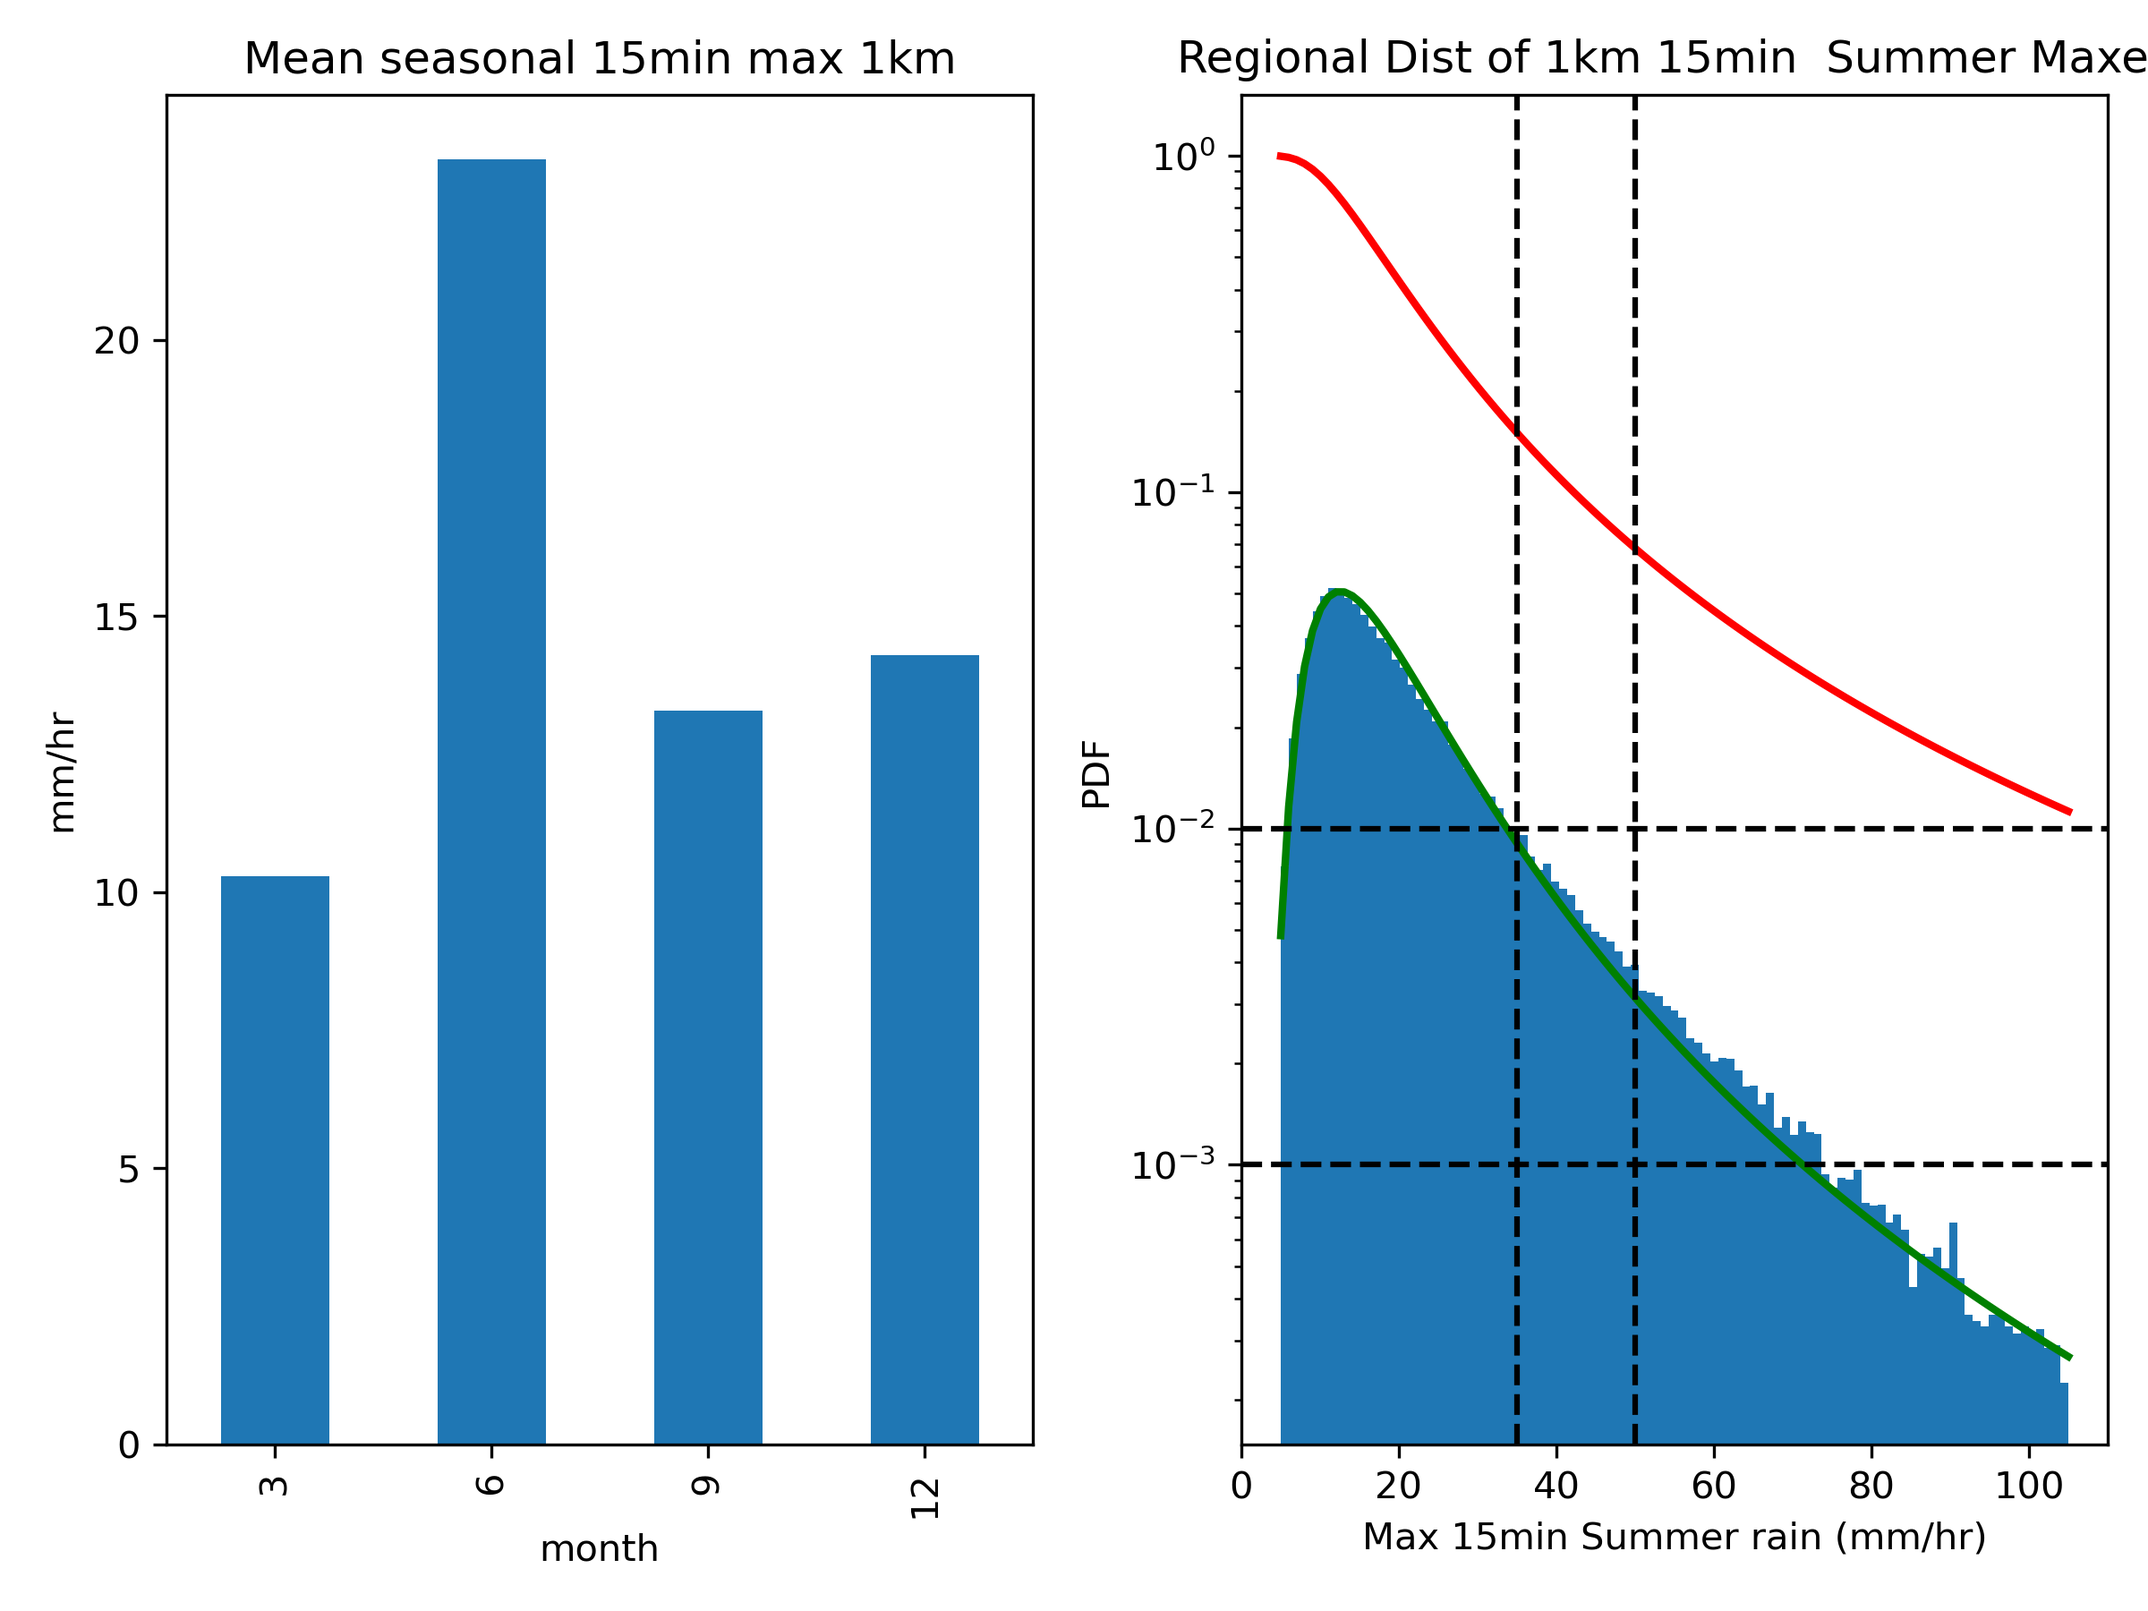
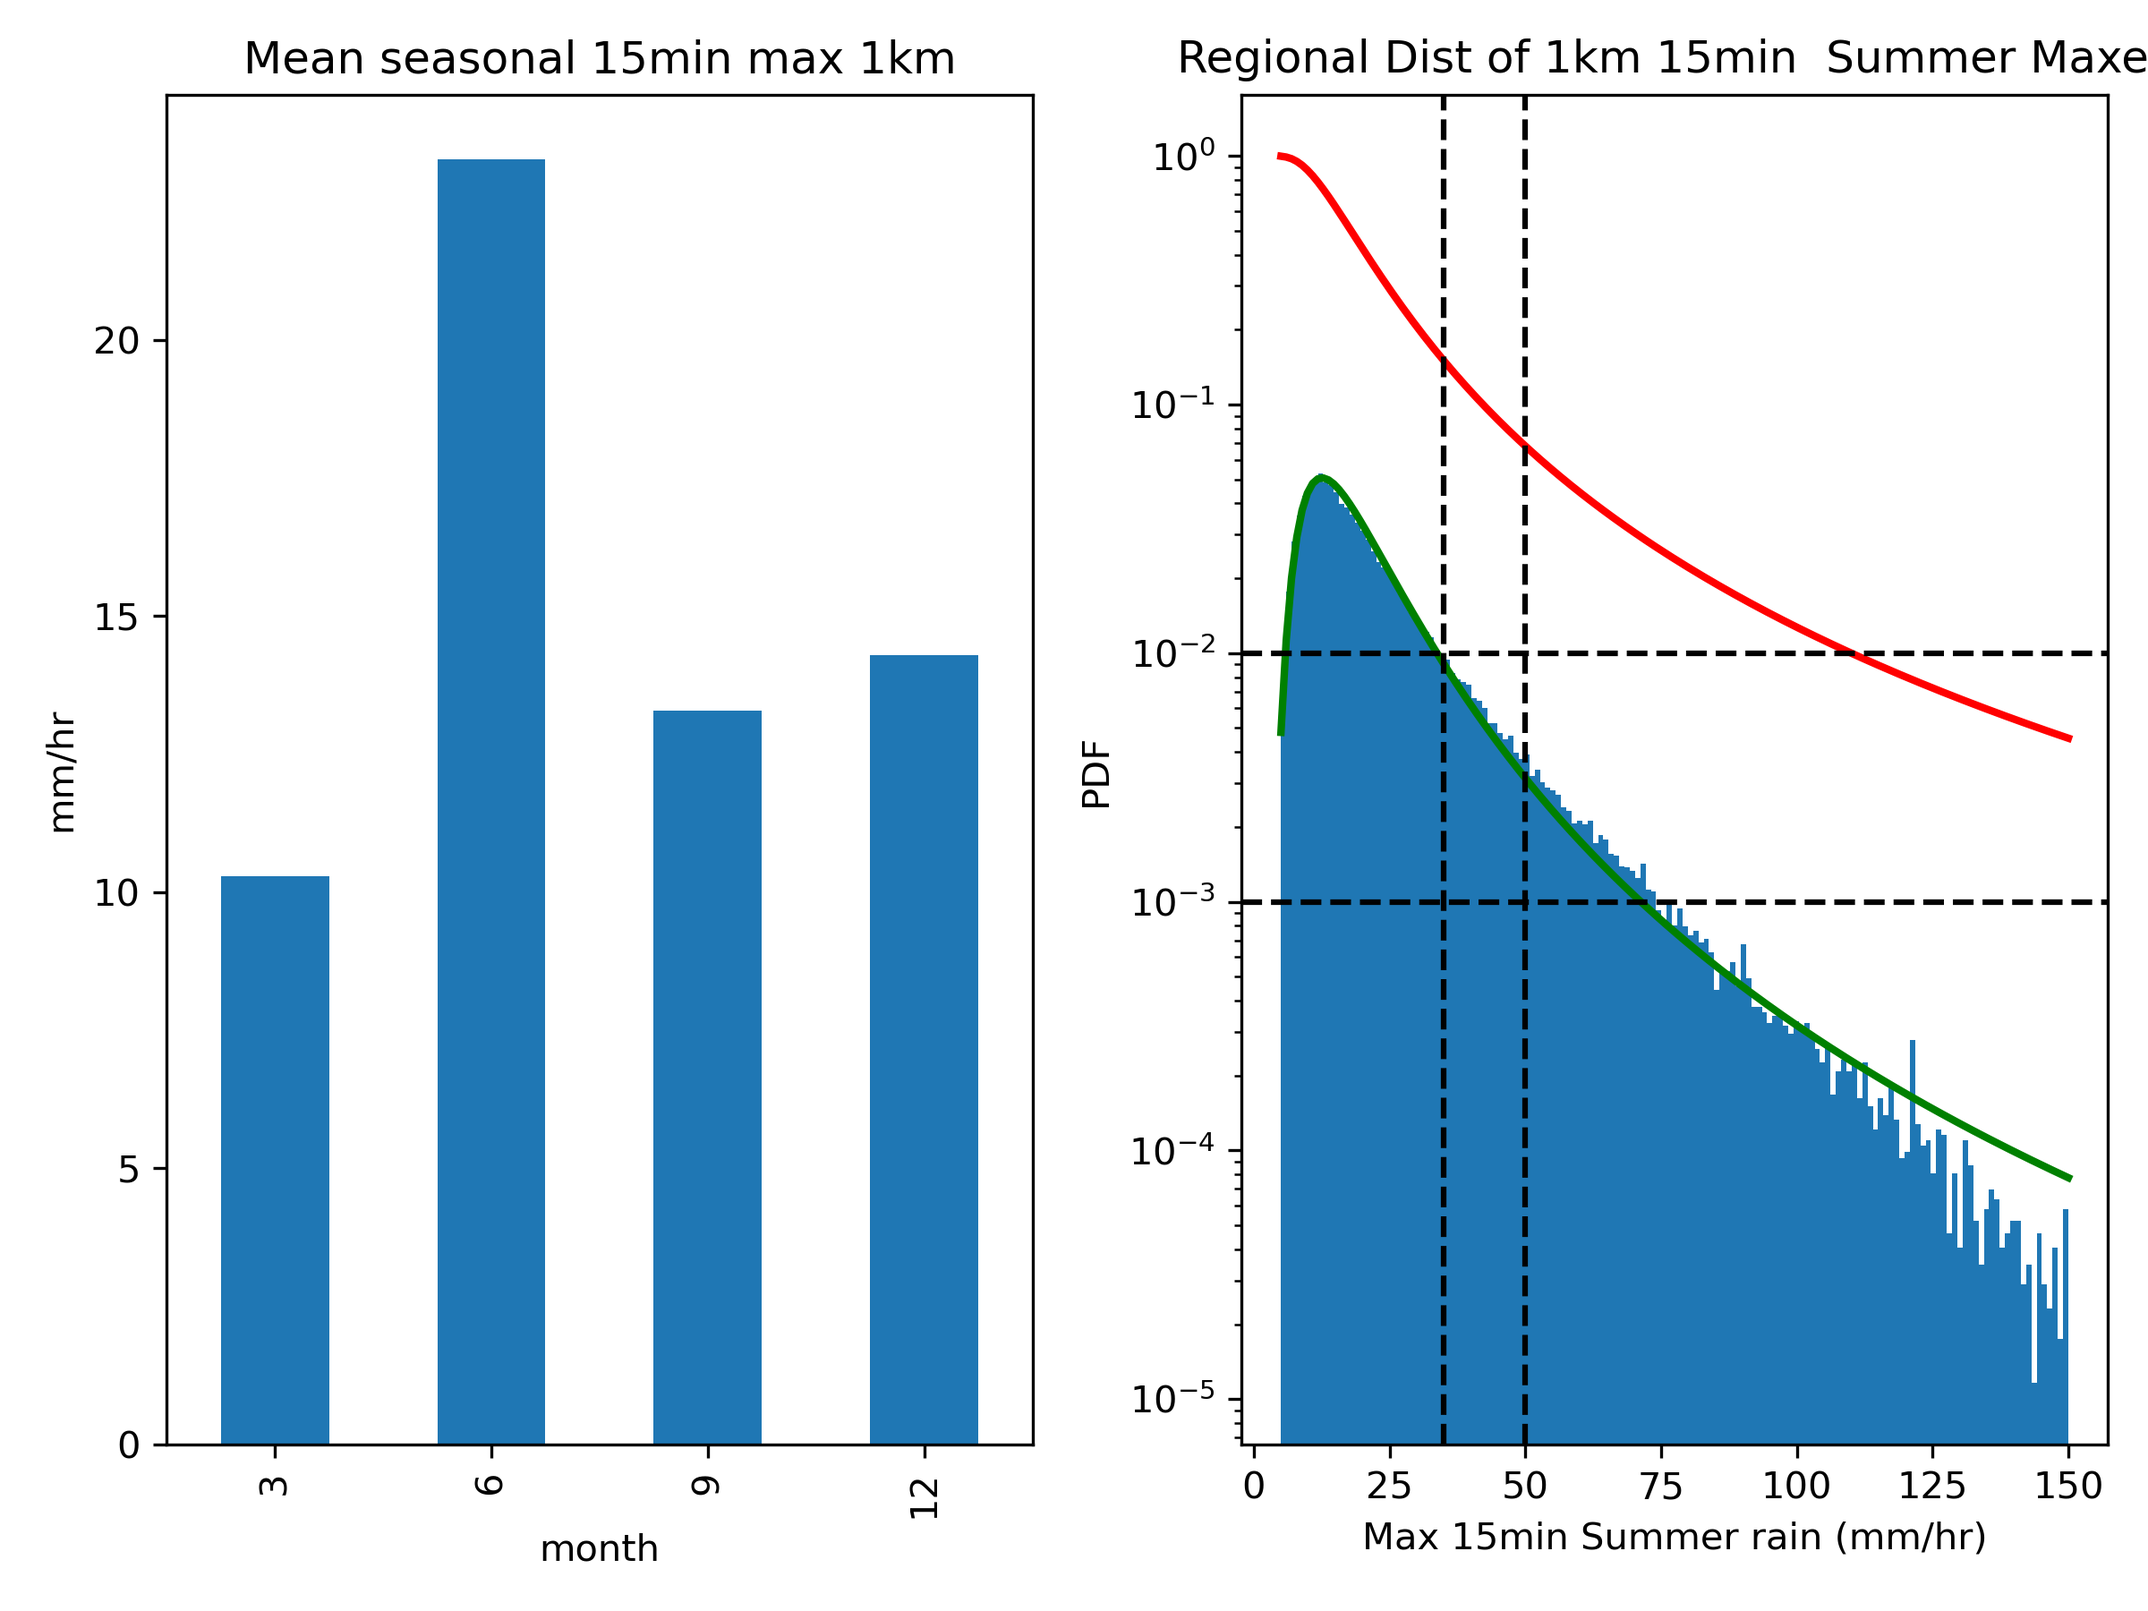
Changes to deal with 1km 15 minute data. plot_july_4th_2021_nimrod.py fairly big changes to make nice plots for 4th July.

diff --git a/plot_july_4th_2021_nimrod.py b/plot_july_4th_2021_nimrod.py
@@ -1,6 +1,7 @@
 """
-Plot data summaries for 4th of July 2021 in Edinburgh
-Use iris to load in a day of data then convert to xarray
+Plot radar and ERA-5 MSLP for 4th of July 2021 in Southern Scotland/Northern England.
+Will do for 15:00 & 16:00 Z
+
 """
 
 import matplotlib.pyplot as plt
@@ -13,110 +14,54 @@ import cartopy.crs as ccrs
 import cartopy.feature as cfeature
 import xarray
 import commonLib
+import numpy as np
+edinburgh_region = dict()
+for k,v in commonLib.edinburgh_castle.items(): # 100km around edinburgh
+    edinburgh_region[k]=slice(v-100e3,v+100e3)
 
+read_data = False
+if read_data:
+    file= commonLib.nimrodRootDir/'uk-1km/2021/metoffice-c-band-rain-radar_uk_20210704_1km-composite.dat.gz.tar'
+    rainAll=commonLib.extract_nimrod_day(file,QCmax=400.)
+    era_5 = xarray.open_dataset(commonLib.dataDir/'UK_ERA5_data_2021_07_03to05.nc')
+    time_sel = ['2021-07-04T14','2021-07-04T15','2021-07-04T16']
+    msl = era_5.msl.sel(time=time_sel,longitude=slice(-15,0),latitude=slice(59,53))/100.
+    era_5_rain = era_5.tp.sel(time=time_sel, longitude=slice(-15,0),latitude=slice(57,53))*1000
+    rain = rainAll.sel(time=time_sel,**edinburgh_region)
+    # get bathymetry/topography data
+    topog = xarray.load_dataset(commonLib.dataDir/'GEBCO_topog_bathy_scotland.nc')
 
-def select_nimrod(cube, field, filename):
-    """
-    Process nimrod cube so we can merge it.
-    Does by removing recursive_filter_iterations
-    :param cube: cube being processed
-    :param field: field
-    :param filename: filename
-    :return:
-    """
-    filter = cube.attributes.pop('recursive_filter_iterations')  # pop gets rid of this which should make merging work.
-    return cube
-
-
-d = pathlib.Path(r"C:\Users\stett2\data\Edinburgh_rain")
-file = d / '202107041300_nimrod_ng_radar_rainrate_composite_1km_UK'
-files = [str(f) for f in d.glob('20210704*UK')]
-# use iris to read nimrod cubes but then convert to xarray for subsequent work.
-c = iris.cube.CubeList(iris.fileformats.nimrod.load_cubes(files, callback=select_nimrod)).merge('time')[0]
-# and convert to xarray as that is much easier to work with.
-radar_rain = xarray.DataArray.from_iris(c)
-# co-ords of data are UK National grid.
-# Edinburgh castle is  324990 Easting & 672876 Northing
-ed_botanics = dict(projection_x_coordinate=324990, projection_y_coordinate=672876, method='nearest')
-ed_castle = dict(projection_x_coordinate=325204, projection_y_coordinate=673447, method='nearest')
-rgn = dict(projection_y_coordinate=slice(500e3, 750e3), projection_x_coordinate=slice(200e3, 450e3))
-ed_rgn = dict(projection_y_coordinate=slice(645e3, 695e3), projection_x_coordinate=slice(280e3, 370e3))
-radar_rain_rgn = radar_rain.sel(**rgn)  # and extract the rgn we want.
-radar_rain_rgn = radar_rain_rgn.resample(time='h').mean()  # hourly data
-# then pullout Edinburgh...
-radar_rain_ed = radar_rain_rgn.sel(**ed_rgn)
 
 ## make plots
-regions = cfeature.NaturalEarthFeature(
-    category='cultural',
-    name='admin_1_states_provinces_lines',
-    scale='10m',
-    facecolor='none')
-nations = cfeature.NaturalEarthFeature(
-    category='cultural',
-    name='admin_0_countries',
-    scale='10m',
-    facecolor='none')
+
 projection = ccrs.OSGB()
-times = ['13', '14', '15', '16', '17']
-figure_scot, ax_scot = plt.subplots(nrows=3, ncols=2, num='Sth_Scot', clear=True, figsize=[8, 12],
+cmap='Blues'
+figure_scot, ax_scot = plt.subplots(nrows=1, ncols=3, num='Sth_Scot', clear=True, figsize=[11, 5],
                                     subplot_kw=dict(projection=projection))
-ax_scot = ax_scot.flat
+
 label_scot = commonLib.plotLabel()
-
-figure, ax = plt.subplots(nrows=3, ncols=2, num='Edinburgh', clear=True, figsize=[8, 12],
-                          subplot_kw=dict(projection=projection))
+rn_levels=[1,2,5,10,20,50]
+slp_levels=np.linspace(999,1006,8)
 label = commonLib.plotLabel()
-ax = ax.flat
-norm = mcol.LogNorm()
-cbar = dict(orientation='horizontal')
-for a, dataArray in zip([ax[0], ax_scot[0]], [radar_rain_ed, radar_rain_rgn]):
-    dataArray.max('time').plot.pcolormesh(rasterized=True, vmin=1, vmax=64, norm=norm, ax=a,cbar_kwargs=cbar)
-    # Edinburgh Castle is roughly easting 325000 Northing 673000
-    a.plot(325204, 673447, marker='*', ms=10, color='black', transform=ccrs.OSGB(), alpha=0.5)
-    a.add_feature(regions, edgecolor='red')
-    a.add_feature(cfeature.BORDERS, edgecolor='red', resolution='10m')
-    a.coastlines(resolution='10m')
-    a.set_title("Max hourly rain")
+rgn = [edinburgh_region['projection_x_coordinate'].start,edinburgh_region['projection_x_coordinate'].stop,
+              edinburgh_region['projection_y_coordinate'].start,edinburgh_region['projection_y_coordinate'].stop]
+for indx,ax in enumerate(ax_scot.flatten()):
+    ax.set_extent(rgn,crs=projection)
+
+    topog.elevation.plot(ax=ax,transform=ccrs.PlateCarree(),add_colorbar=False,cmap='YlOrBr')
+    ax.plot(*list(commonLib.edinburgh_botanics.values()), marker='o', ms=6, color=commonLib.colors['botanics'],
+            transform=projection)
+    cm = rain.isel(time=indx).plot(ax=ax, levels=rn_levels, cmap=cmap,add_colorbar=False,alpha=0.7)
+    #cmE=era_5_rain.isel(time=indx).plot(ax=ax,levels=rn_levels,cmap=cmap,transform=ccrs.PlateCarree(),alpha=0.2,add_colorbar=False)
+
+    label.plot(ax)
 
 
-for a, a_scot, time in zip(ax[1:], ax_scot[1:], times):
-    radar_rain.sel(time=f'2021-07-04T{time}:00', **ed_rgn).plot.pcolormesh(rasterized=True, vmin=1, vmax=64, norm=norm,
-                                                                           ax=a, add_colorbar=False)
+    c=msl.isel(time=indx).plot.contour(ax=ax,levels=slp_levels,transform=ccrs.PlateCarree(),colors='grey',linestyles='dashed')
+    ax.clabel(c)
+    commonLib.std_decorators(ax)
 
-    radar_rain.sel(time=f'2021-07-04T{time}:00', **rgn).plot.pcolormesh(rasterized=True, vmin=1, vmax=64, norm=norm,
-                                                                        ax=a_scot, add_colorbar=False)
-    for aa in [a, a_scot]:  # common axis stuff
-        aa.set_title(f'5min {time}00Z')
-        a.plot(325204, 673447, marker='*', ms=10, color='black', transform=ccrs.OSGB(), alpha=0.5)
-        aa.add_feature(regions, edgecolor='red')
-        aa.coastlines(resolution='10m')
-
-# add labels to all plots.
-
-for a in ax_scot:
-    label_scot.plot(a)
-for a in ax:
-    label.plot(a)
-
-for fig, title in zip([figure, figure_scot], ['Edinburgh', 'Southern Scotland']):
-    fig.suptitle(f"{title} rain (mm/hour) 2021-07-04")
-    fig.tight_layout()
-    fig.show()
-    commonLib.saveFig(fig)
-
-
-## plot t/s of rain at Castle and botanics.
-
-fig,axes = plt.subplots(nrows=2,ncols=1,num='Edinburgh_ts',clear=True,figsize=[6,6],sharex='all',sharey='all')
-for ax,loc,title in zip(axes.flat,[ed_castle,ed_botanics],['Edinburgh Castle','Botanic Gardens']):
-    ts=radar_rain.sel(**loc).sel(time=slice('2021-07-04T14:00','2021-07-04T18:00'))/12 # convert to mm/5 min
-    ts.cumsum().plot.step(ax=ax) # and plot it
-    ax.set_ylabel('Total Rain (mm)')
-    ax.set_title(title)
-    ax.axvline('2021-07-04T16:00',color='grey',linestyle='dashed')
-fig.suptitle("Cumulative rain (mm) 2021-07-04")
-fig.tight_layout()
-fig.show()
-commonLib.saveFig(fig)
-
+figure_scot.colorbar(cm,orientation='horizontal',ax=ax_scot,fraction=0.08,pad=0.05,aspect=40)
+#figure_scot.tight_layout()
+figure_scot.show()
+commonLib.saveFig(figure_scot)

diff --git a/plot_time_corr.py b/plot_time_corr.py
@@ -9,30 +9,35 @@ import numpy as np
 import  matplotlib.pyplot as plt
 import cartopy.crs as ccrs
 
-def prob_same_event(file,time_sep=6.):
+def prob_same_event(file,time_sep=12.,time=None):
     """
 
     :param file: file to read in
     :param time_sep: Time separation for event to be independent.
+    :param time: If not None the times to be used.
     :return:  fraction of times where seasonal extremes within 6 hours of Edinburgh Castle extreme.
     """
     monthlyDS = xarray.load_dataset(file)
+    if time is not None:
+        monthlyDS=monthlyDS.sel(time=time)
     ddseas = monthlyDS.resample(time='QS-Dec').map(commonLib.time_process,
                                                    varPrefix='monthly')
     ed = ddseas.MaxTime.sel(method='nearest', **commonLib.edinburgh_castle)
     dt = np.abs(ed - ddseas.MaxTime) / np.timedelta64(1,                                                                                                              'h')
-    p=(dt < 12).groupby('time.month').mean()
+    p=(dt < time_sep).groupby('time.month').mean()
     return  p
 
-p_1km  = prob_same_event('Edinburgh_extremes_1km.nc')
-p_5km  = prob_same_event('Edinburgh_extremes.nc')
+time_prd=slice('2004','2019')
+p_1km  = prob_same_event('Edinburgh_extremes_1km.nc',time=time_prd)
+p_1km_15min  = prob_same_event('Edinburgh_extremes_1km_15min.nc',time=time_prd)
+p_5km  = prob_same_event('Edinburgh_extremes.nc',time=time_prd)
 proj=ccrs.OSGB()
 levels=np.array([0.0,0.05,0.1,0.2,0.4,0.6,0.8])
 
 kw_cbar=dict(orientation='horizontal',fraction=0.05,pad=0.1)
 cmap='Blues'
 spatial_coords  = ['projection_x_coordinate', 'projection_y_coordinate']
-fig, axes = plt.subplots(nrows=1, ncols=2, clear=True, sharex=True, sharey=True,
+fig, axes = plt.subplots(nrows=1, ncols=3, clear=True, sharex=True, sharey=True,
                          num=f'Edinburgh_p_same_event', figsize=[11, 7],
                          subplot_kw=dict(projection=proj))
 
@@ -41,13 +46,14 @@ fig, axes = plt.subplots(nrows=1, ncols=2, clear=True, sharex=True, sharey=True,
 ext = [commonLib.edinburgh_region['projection_x_coordinate'].start,commonLib.edinburgh_region['projection_x_coordinate'].stop,
        commonLib.edinburgh_region['projection_y_coordinate'].start,commonLib.edinburgh_region['projection_y_coordinate'].stop]
 dist = [10,25,50]
-for ax,title,var in zip(axes.flatten(),['1km','5km'],[p_1km,p_5km]):
+for ax,title,var in zip(axes.flatten(),['1km_15min','1km','5km'],[p_1km_15min,p_1km,p_5km]):
 
 
     ax.set_extent(ext, crs=proj)
 
-    cm = var.sel(month=6).plot.contourf(ax=ax, cmap=cmap, levels=levels, transform=proj, add_colorbar=False)
-    cl = var.sel(month=6).plot.contour(ax=ax, colors='black', levels=levels, transform=proj, add_colorbar=False)
+    ##cm = var.sel(month=6).plot.contourf(ax=ax, cmap=cmap, levels=levels, transform=proj, add_colorbar=False)
+    cm = var.sel(month=6).plot(ax=ax, cmap=cmap, levels=levels, transform=proj, add_colorbar=False)
+    ##cl = var.sel(month=6).plot.contour(ax=ax, colors='black', levels=levels, transform=proj, add_colorbar=False)
     ax.set_title(f"{title}")
 
     commonLib.std_decorators(ax)  # put std stuff on axis

diff --git a/plot_dists.py b/plot_dists.py
@@ -40,19 +40,18 @@ read_data = True
 if read_data:
     seas_max_5km = comp_seas_max("Edinburgh_extremes.nc",time=slice('2000','2019'))
     seas_max_1km = comp_seas_max("Edinburgh_extremes_1km.nc",time=slice('2000','2019'))
+    seas_max_1km_15min = comp_seas_max("Edinburgh_extremes_1km_15min.nc",time=slice('2000','2019'))
     print("Read monthly summary data")
 
 fig,axes = plt.subplots(nrows=1,ncols=2,num='Reg_Clim_max_1km',clear=True,figsize=[8,6])
 sm = []
 spatial_coords  = ['projection_x_coordinate', 'projection_y_coordinate']
 color = {'1km_50km':'blue','5km_50km':'skyblue','1km_25km':'black',
-         '5km_25km':'grey','1km_10km':'red','5km_10km':'orange'}
-region50 = rgn(50.)
-region25 = rgn(25.)
-region10= rgn(10.)
-rgns = {'50km':50.,'25km':25.,'10km':10.}
+         '5km_25km':'grey','1km_15min_50km':'purple','1km_15min_25km':'fuchsia'}
+
+rgns = {'50km':50.,'25km':25.}
 for rname,region in rgns.items():
-    for seas_max,name in zip([seas_max_1km,seas_max_5km],['1km','5km']):
+    for seas_max,name in zip([seas_max_1km,seas_max_5km,seas_max_1km_15min],['1km','5km','1km_15min']):
         ds = seas_max.groupby('time.month').mean()
         ds = rgn_dist(ds,region)
         sm.append(
@@ -63,10 +62,10 @@ sm.plot.bar(ax=axes[0],color=color)
 axes[0].set_title("Mean seasonal max 1km")
 axes[0].set_ylabel("mm/hr")
 
-x=np.linspace(5,105,100)
+x=np.linspace(5,150,150)
 ##
 for rname,region in rgns.items():
-    for ds,t in zip([seas_max_1km,seas_max_5km],['1km','5km']):
+    for ds,t in zip([seas_max_1km,seas_max_5km,seas_max_1km_15min],['1km','5km','1km_15min']):
         name = t+'_'+rname
         data = rgn_dist(ds.sel(time=(ds.time.dt.month==6)),region)
         data = data.values.flatten() #

diff --git a/commonLib.py b/commonLib.py
@@ -25,11 +25,13 @@ bad_data_err = (zlib.error,iris.exceptions.ConstraintMismatchError,gzip.BadGzipF
 machine = platform.node()
 if ('jasmin.ac.uk' in machine) or ('jc.rl.ac.uk' in machine):
     # specials for Jasmin cluster or LOTUS cluster
+    dataDir = pathlib.Path.cwd()
     nimrodRootDir = pathlib.Path("/badc/ukmo-nimrod/data/composite") # where the nimrod data lives
     outdir = pathlib.Path(".")  #writing locally. Really need a workspace..
 elif 'geos-' in machine:
-    nimrodRootDir = pathlib.Path(r'C:\Users\stett2\data\Edinburgh_rain\nimrod_data')
-    outdir = pathlib.Path(r'C:\Users\stett2\data\Edinburgh_rain\output')
+    dataDir = pathlib.Path(r'C:\Users\stett2\data\Edinburgh_rain')
+    nimrodRootDir = dataDir/'nimrod_data'
+    outdir = dataDir/'output_data'
 else: # don't know what to do so raise an error.
     raise Exception(f"On platform {machine} no idea where data lives")
 # create the outdir
